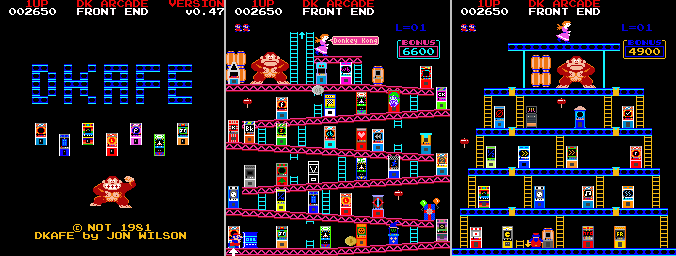
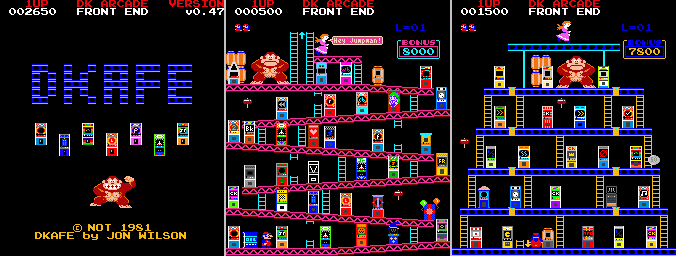
Add Crazy Kong for Galaxian Hardware Bootleg Don't show the game text information when Jumpman is on a ladder Minor changes to romlist.csv, moving machines away from the top of ladders (on rivet stage)

diff --git a/launch.py b/launch.py
@@ -389,7 +389,8 @@ def display_icons(detect_only=False, with_background=False, below_y=None, above_
                         _g.screen.blit(img, (_x, _y))
                         if up and not _g.ready:
                             if pygame.time.get_ticks() % 550 < 275:
-                                _g.screen.blit(get_image(f"artwork/sprite/up.png"), (_x+1, _y+22))
+                                if not is_on_ladder():
+                                    _g.screen.blit(get_image(f"artwork/sprite/up.png"), (_x+1, _y+22))
                     if "-record" in _s.get_emulator(emu).lower() and not _g.showinfo:
                         # Show recording text above icon
                         if _g.timer.duration % 2 < 1:
@@ -498,6 +499,11 @@ def animate_jumpman(direction=None, horizontal_movement=1, midjump=False):
     _g.screen.blit(img, (_g.xpos, int(_g.ypos)))
     _g.last_image = img
     play_sound_effect(sound_file)
+
+
+def is_on_ladder():
+    ladder_info = get_map_info("u") + get_map_info("d")
+    return "ANY_LADDER" in ladder_info and "TOP_OF_LADDER" not in ladder_info
 
 
 def build_menus(initial=False):
@@ -971,7 +977,7 @@ def process_interrupts():
             write_text("P1 START", x=108 + _g.psx, y=38 + _g.psy, bg=MAGENTA)
 
         # Display game text
-        if SHOW_GAMETEXT:
+        if SHOW_GAMETEXT and not is_on_ladder():
             icons = display_icons(detect_only=True)
             if icons:
                 sub, name, *_ = icons

diff --git a/readme.md b/readme.md
@@ -159,6 +159,8 @@ Credit is given to the original authors below.
  - Donkey Kong converted to Galaxian Hardware
  - Crazy Kong converted to Scramble Hardware
  - Crazy Kong converted to Moon Cresta Hardware
+ - Crazy Kong converted to Galaxian Hardware
+
 
 
 ![DKAFE hacks](https://github.com/10yard/dkafe/blob/master/artwork/about/dkwho_gameplay.png)
